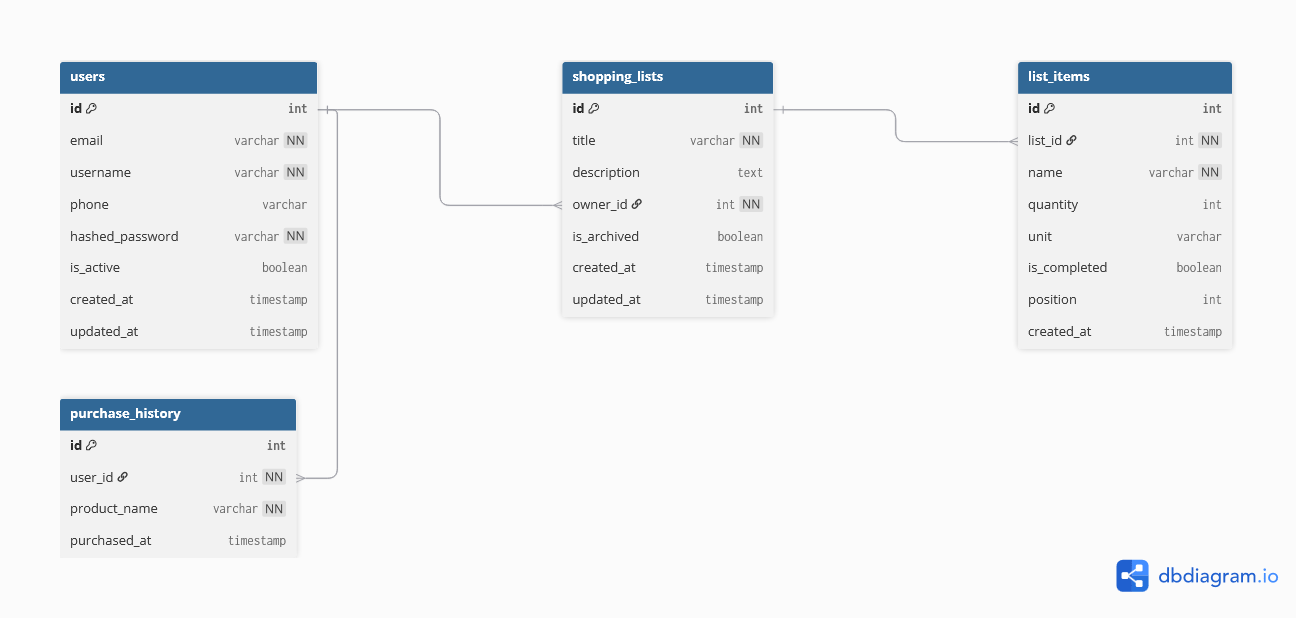
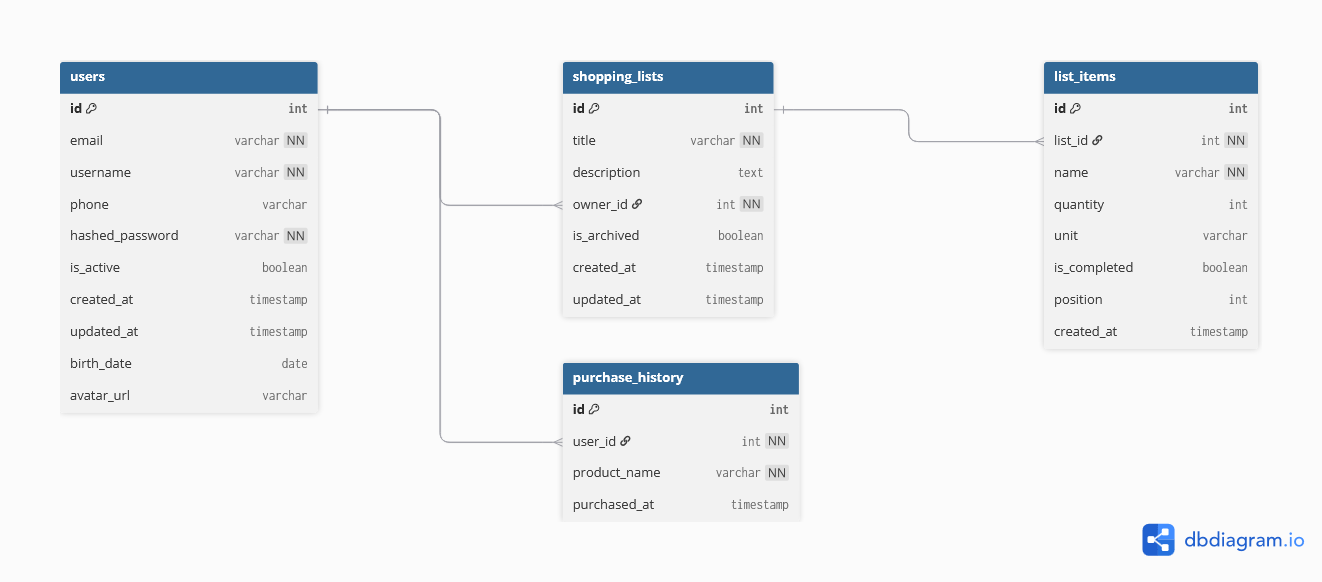
docs: update db schema with birth_date and avatar_url

diff --git a/README.md b/README.md
@@ -148,7 +148,7 @@ python run.py
 
 ### Описание таблиц
 
-- **users** – пользователи (id, email, username, phone, hashed_password, is_active, created_at, updated_at)
+- **users** – пользователи (id, email, username, phone, hashed_password, is_active, created_at, updated_at, birth_date, avatar_url)
 - **shopping_lists** – списки покупок (id, title, description, owner_id, is_archived, created_at, updated_at)
 - **list_items** – товары в списках (id, list_id, name, quantity, unit, is_completed, position, created_at)
 - **purchase_history** – история покупок (id, user_id, product_name, purchased_at)
